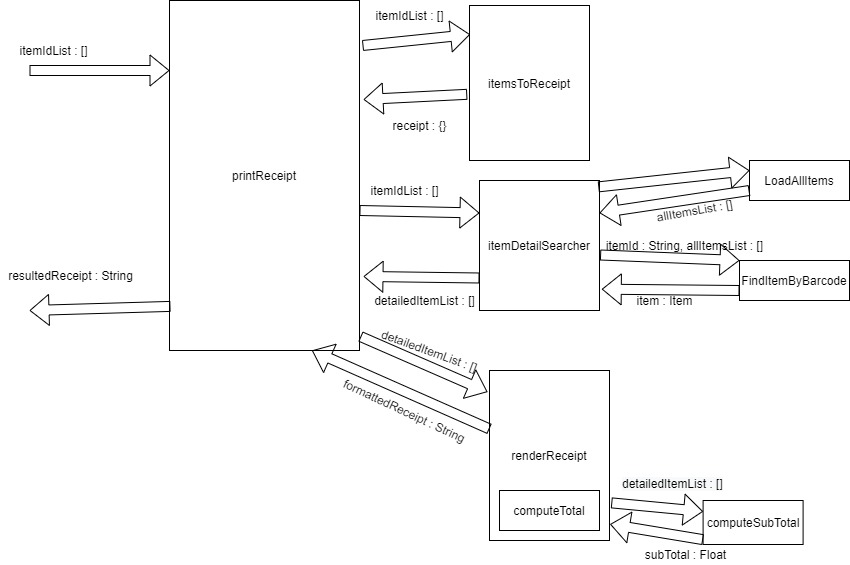
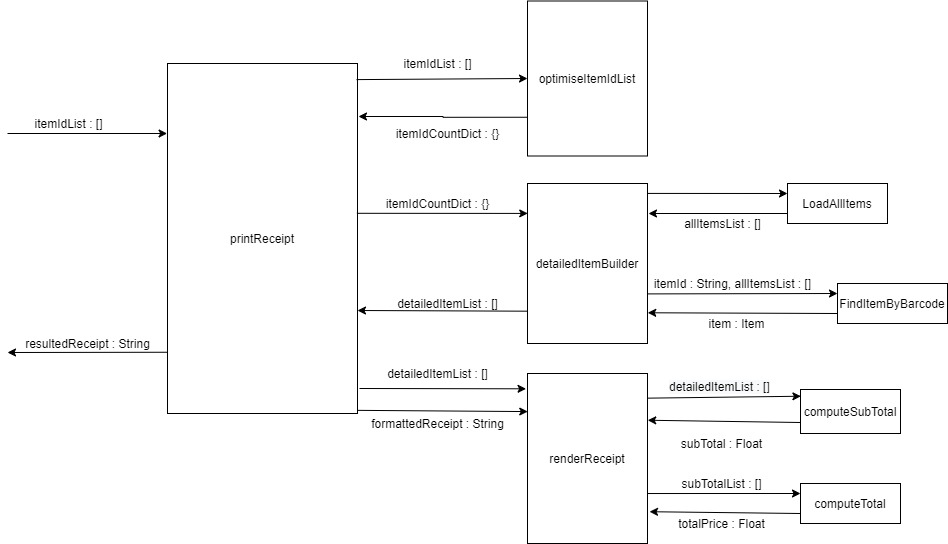
Update contextMap and align it in code

diff --git a/main/main.js b/main/main.js
@@ -1,24 +1,21 @@
 'use strict';
 
 function printReceipt(inputs) {
-  // console.log('Implement the exercise requirements here and rewrite the line of code.');
-  let receiptDict = itemsToReceipt(inputs);
-  let detailedReceiptDict = itemDetailSearcher(receiptDict);
-  // console.log(detailedReceiptDict);
-  // renderReceipt(detailedReceiptDict);
+  let itemIdCountDict = optimiseItemIdList(inputs);
+  let detailedReceiptDict = detailedItemBuilder(itemIdCountDict);
   console.log(renderReceipt(detailedReceiptDict));
 }
 
-function itemsToReceipt(itemIdList) {
-  let optimisedItemIdict = {};
+function optimiseItemIdList(itemIdList) {
+  let optimisedItemIdDict = {};
   itemIdList.forEach(function(itemId) {
     // If itemId exist then add 1 else init with 1
-    optimisedItemIdict[itemId] = (optimisedItemIdict[itemId] || 0) + 1;
+    optimisedItemIdDict[itemId] = (optimisedItemIdDict[itemId] || 0) + 1;
   });
-  return optimisedItemIdict;
+  return optimisedItemIdDict;
 }
 
-function itemDetailSearcher(receiptDict) {
+function detailedItemBuilder(receiptDict) {
   let detailedItemList = [];
 
   Object.keys(receiptDict).forEach(function(itemId) {
@@ -36,29 +33,33 @@ function findItemByBarcode(itemId, quantity) {
 }
 
 function renderReceipt(receipt) {
-  var totalPrice = 0;
+  var subTotalList = [];
   var resultedReceiptString = "***<store earning no money>Receipt ***\n";
 
   receipt.forEach(function(item) {
     let itemObj = JSON.parse(item);
-    let subPrice = calSubPrice(itemObj.price, itemObj.quantity);
-    totalPrice += subPrice;
+    let subTotal = computeSubTotal(itemObj.price, itemObj.quantity);
+    subTotalList.push(subTotal);
     resultedReceiptString += "Name：" + itemObj.name + "，Quantity：" + itemObj.quantity + " ";
     if (itemObj.quantity > 1) {
       resultedReceiptString += itemObj.unit + "s"
     } else {
       resultedReceiptString += itemObj.unit
     }
-    resultedReceiptString += "，Unit：" + itemObj.price.toFixed(2) + " (yuan)，Subtotal：" + subPrice.toFixed(2) + " (yuan)" + "\n";
+    resultedReceiptString += "，Unit：" + itemObj.price.toFixed(2) + " (yuan)，Subtotal：" + subTotal.toFixed(2) + " (yuan)" + "\n";
   });
 
   resultedReceiptString += "----------------------\n";
-  resultedReceiptString += "总计：" + totalPrice.toFixed(2) + " (yuan)\n";
+  resultedReceiptString += "总计：" + computeTotal(subTotalList).toFixed(2) + " (yuan)\n";
   resultedReceiptString += "**********************"
   
   return resultedReceiptString;
 }
 
-function calSubPrice(price, quantity) {
+function computeSubTotal(price, quantity) {
   return price * quantity;
+}
+
+function computeTotal(subTotalList) {
+  return subTotalList.reduce((a,b) => a + b, 0);
 }
